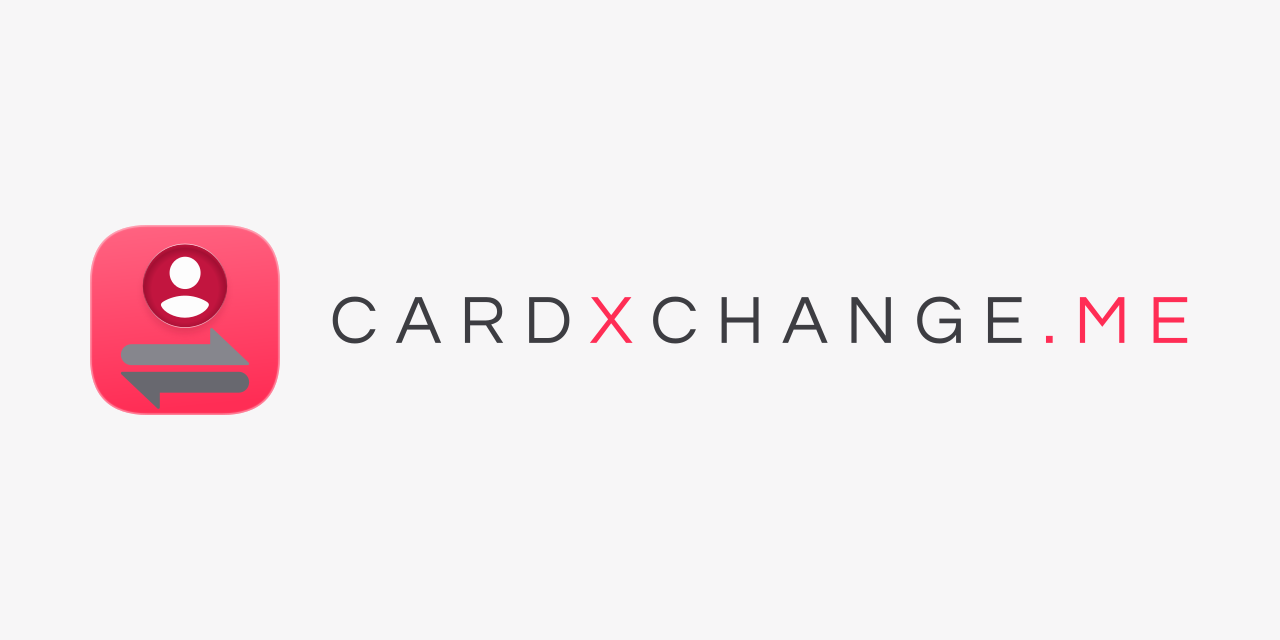
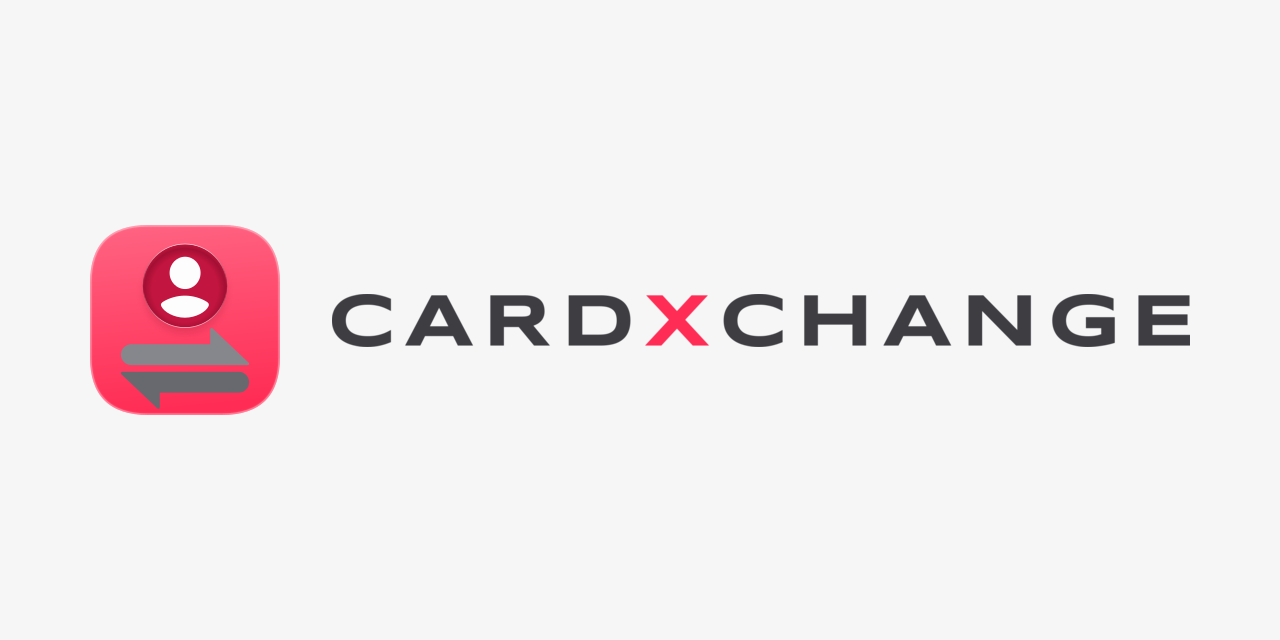
Wordmark: style 2, wide bold
Syncopate Bold in capitals, letter-spacing 0.12em, the X in pink.
The ".ME" suffix is gone. The social preview shows the new wordmark.

Refs #11

Changed region(s): [[0.25, 0.4375, 0.9375, 0.5625]]

diff --git a/README.md b/README.md
@@ -1,5 +1,5 @@
 <p align="center"><img src="assets/logo.svg" width="128" alt="cardXchange logo"></p>
-<p align="center"><img src="assets/wordmark.svg" width="360" alt="cardXchange.me"></p>
+<p align="center"><img src="assets/wordmark.svg" width="360" alt="cardXchange"></p>
 
 # cardXchange
 
